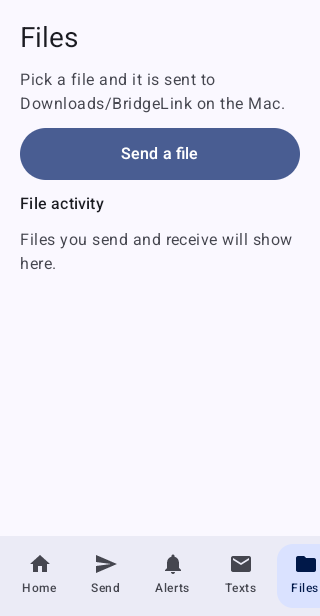
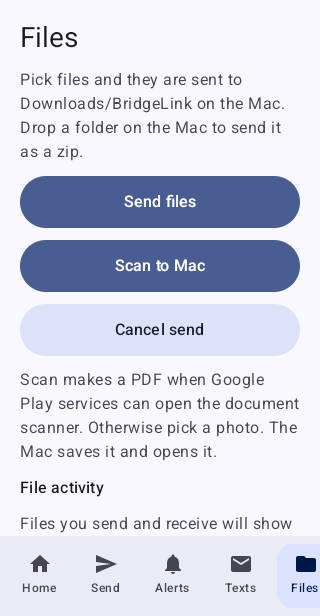
Release 0.11.0 with the Stage 4 screens.
Media, leave-lock, inbox, clipboard history, and scan are in this version.

diff --git a/macos/Sources/BridgeLink/DeskPages.swift b/macos/Sources/BridgeLink/DeskPages.swift
@@ -168,7 +168,7 @@ struct DeskDetail: View {
             LockPane()
             Text("The first open needs one extra step because this app is not from the Mac App Store. macOS 13 or 14: right-click the app, choose Open, then Open. macOS 15 or newer: System Settings, Privacy and Security, Open Anyway.")
                 .font(.callout).foregroundStyle(.secondary)
-            Text("BridgeLink 0.10.0").font(.headline)
+            Text("BridgeLink 0.11.0").font(.headline)
             Text("Links this Mac to a paired Android phone on the local network. Traffic uses TLS. The phone pins this Mac's key after the first PIN.")
                 .foregroundStyle(.secondary)
             Button("Quit") { model.quit() }

diff --git a/docs/PROGRESS.md b/docs/PROGRESS.md
@@ -1,15 +1,15 @@
 # Progress
 
-Stage 4 code is in this commit. Version is still 0.10.0 until CI is green, then tag v0.11.0.
+v0.11.0 is the Stage 4 release. The code CI was green: https://github.com/CAPPY7/bridgelink/actions/runs/43696134332
 
 ## Done in code
 - Stage 1 bug fixes are in v0.8.0.
 - Stage 2 design is in v0.9.0.
 - Stage 3 half-done features are in v0.10.0.
-- Stage 4 easy features are in the working tree: media control both ways, lock the Mac when the phone leaves, a Mac inbox, clipboard history, and scan to Mac.
+- Stage 4 easy features are in v0.11.0. Media control works both ways. The Mac can lock when the phone leaves, and it never unlocks. The Mac has one inbox. Clipboard history keeps 100 items and skips secrets. A phone scan is saved on the Mac and opened.
 
 ## Next exact step
-Wait until CI is green. Then bump to 0.11.0, tag v0.11.0, and check the release has the signed APK and the DMG.
+Start Stage 5 (version 0.12.0). Medium features, in the order in docs/BUILD_PROMPT.md Part 4, Stage 5: SMS, shared folder, automations, then the phone as a trackpad and keyboard.
 
 ## Open problems
 - LinkService.java is still longer than 400 lines.
@@ -17,6 +17,6 @@ Wait until CI is green. Then bump to 0.11.0, tag v0.11.0, and check the release 
 - Sparkle, the first-run wizard, and the in-app updater are not built yet.
 - A free share extension can stay hidden until the app is opened once. Finder Services, Send to phone, is the backup.
 - The document scanner needs Google Play services. If it is missing, the phone asks you to pick a photo instead.
-- Leave-lock needs Bluetooth on the phone and a Mac that is allowed to lock the screen. The Mac is never unlocked by the phone.
-- Messages, remote trackpad, screen mirror, shared folder, webcam, and automations are still later stages.
+- Leave-lock needs Bluetooth on the phone and Accessibility on the Mac so the lock shortcut works. The Mac is never unlocked by the phone.
+- Screen mirror, shared folder, webcam, and automations are still later stages.
 - Do not create a new Android signing key. Do not print secrets.

diff --git a/docs/CHANGELOG.md b/docs/CHANGELOG.md
@@ -1,5 +1,13 @@
 # Changelog
 
+## 0.11.0
+
+- The phone can play, pause, skip, and set the volume of music on the Mac. The Mac can do the same for music on the phone, including the song name and a small picture when notification access is on.
+- If you turn it on, the phone watches the Mac over Bluetooth. When the signal stays weak, the Mac locks. It never unlocks. Charging the phone, or "I am at my desk", skips the lock.
+- The Mac has one inbox for notifications, text messages, and received files. You can search it and filter it. Passwords and codes are hidden.
+- Both apps keep the last 100 clipboard copies. You can pin, search, and delete them. Passwords, card numbers, and codes are not stored.
+- Scan a document on the phone. It is saved on the Mac and opened. If the document scanner is missing, pick a photo instead.
+
 ## 0.10.0
 
 - Files can be up to 4 GB. They still stream in small pieces, can resume, and can be cancelled. A folder is sent as a zip. Several files can be sent together. A received file opens when it is saved.
